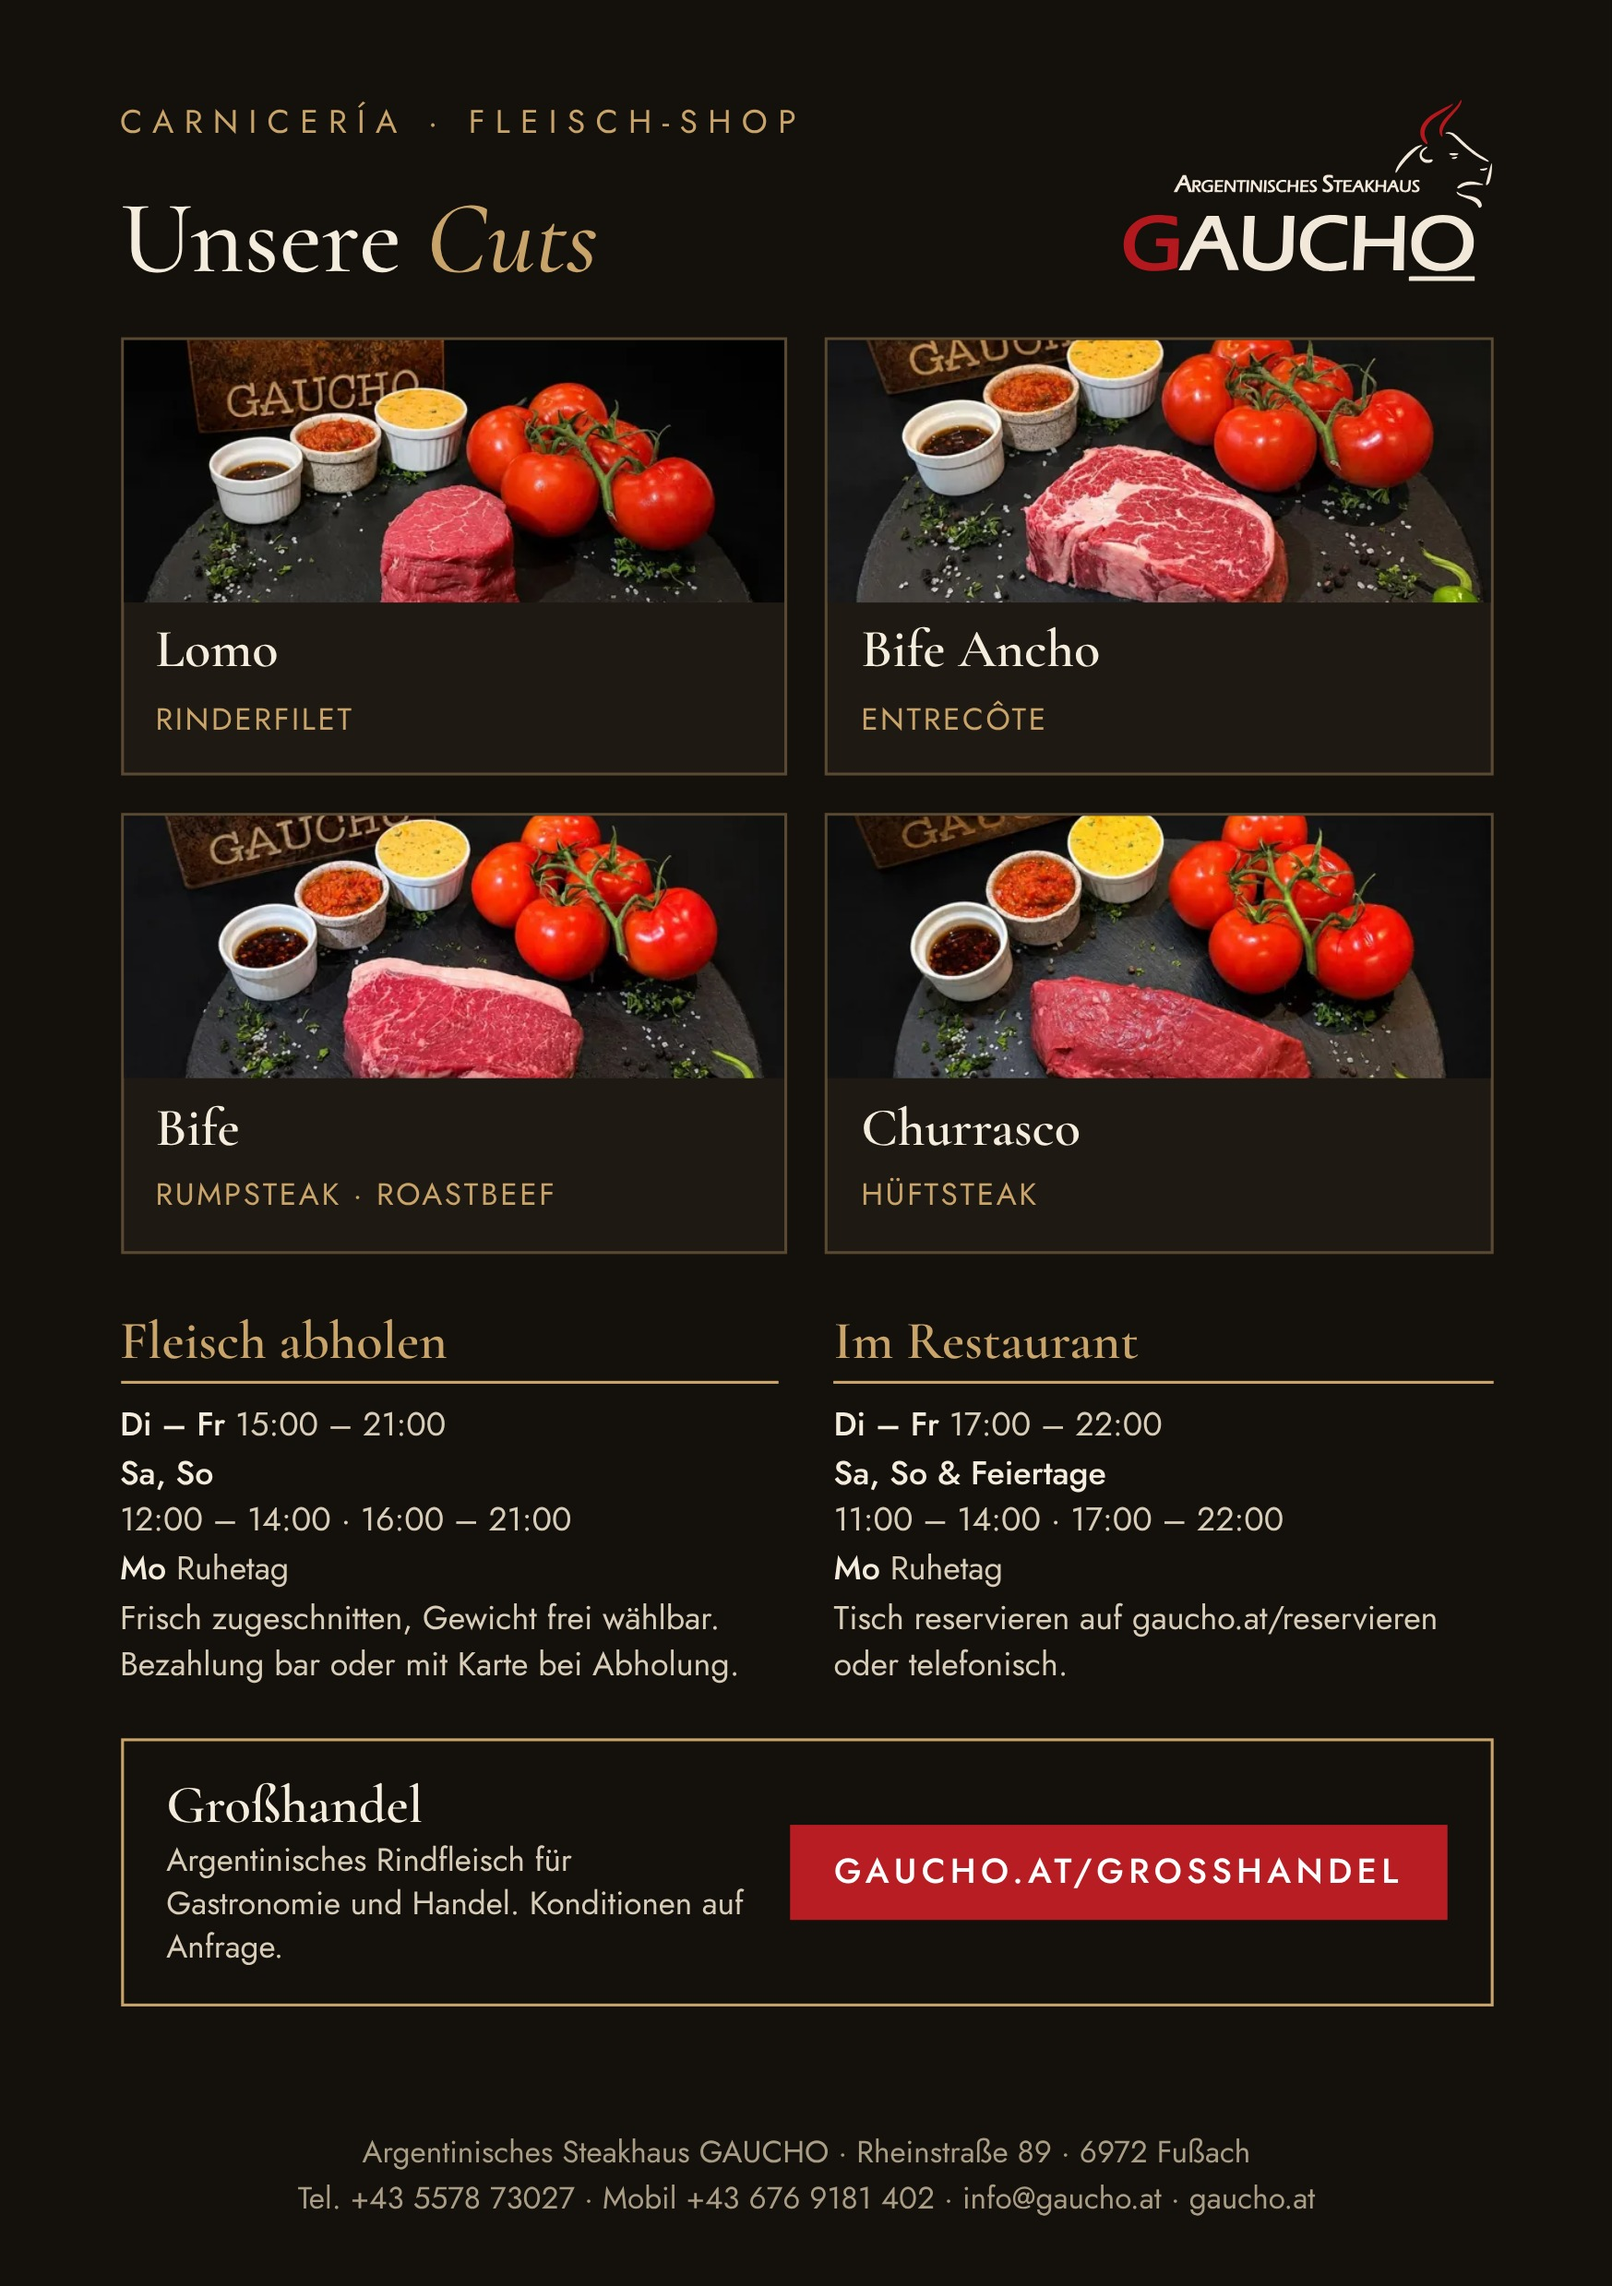
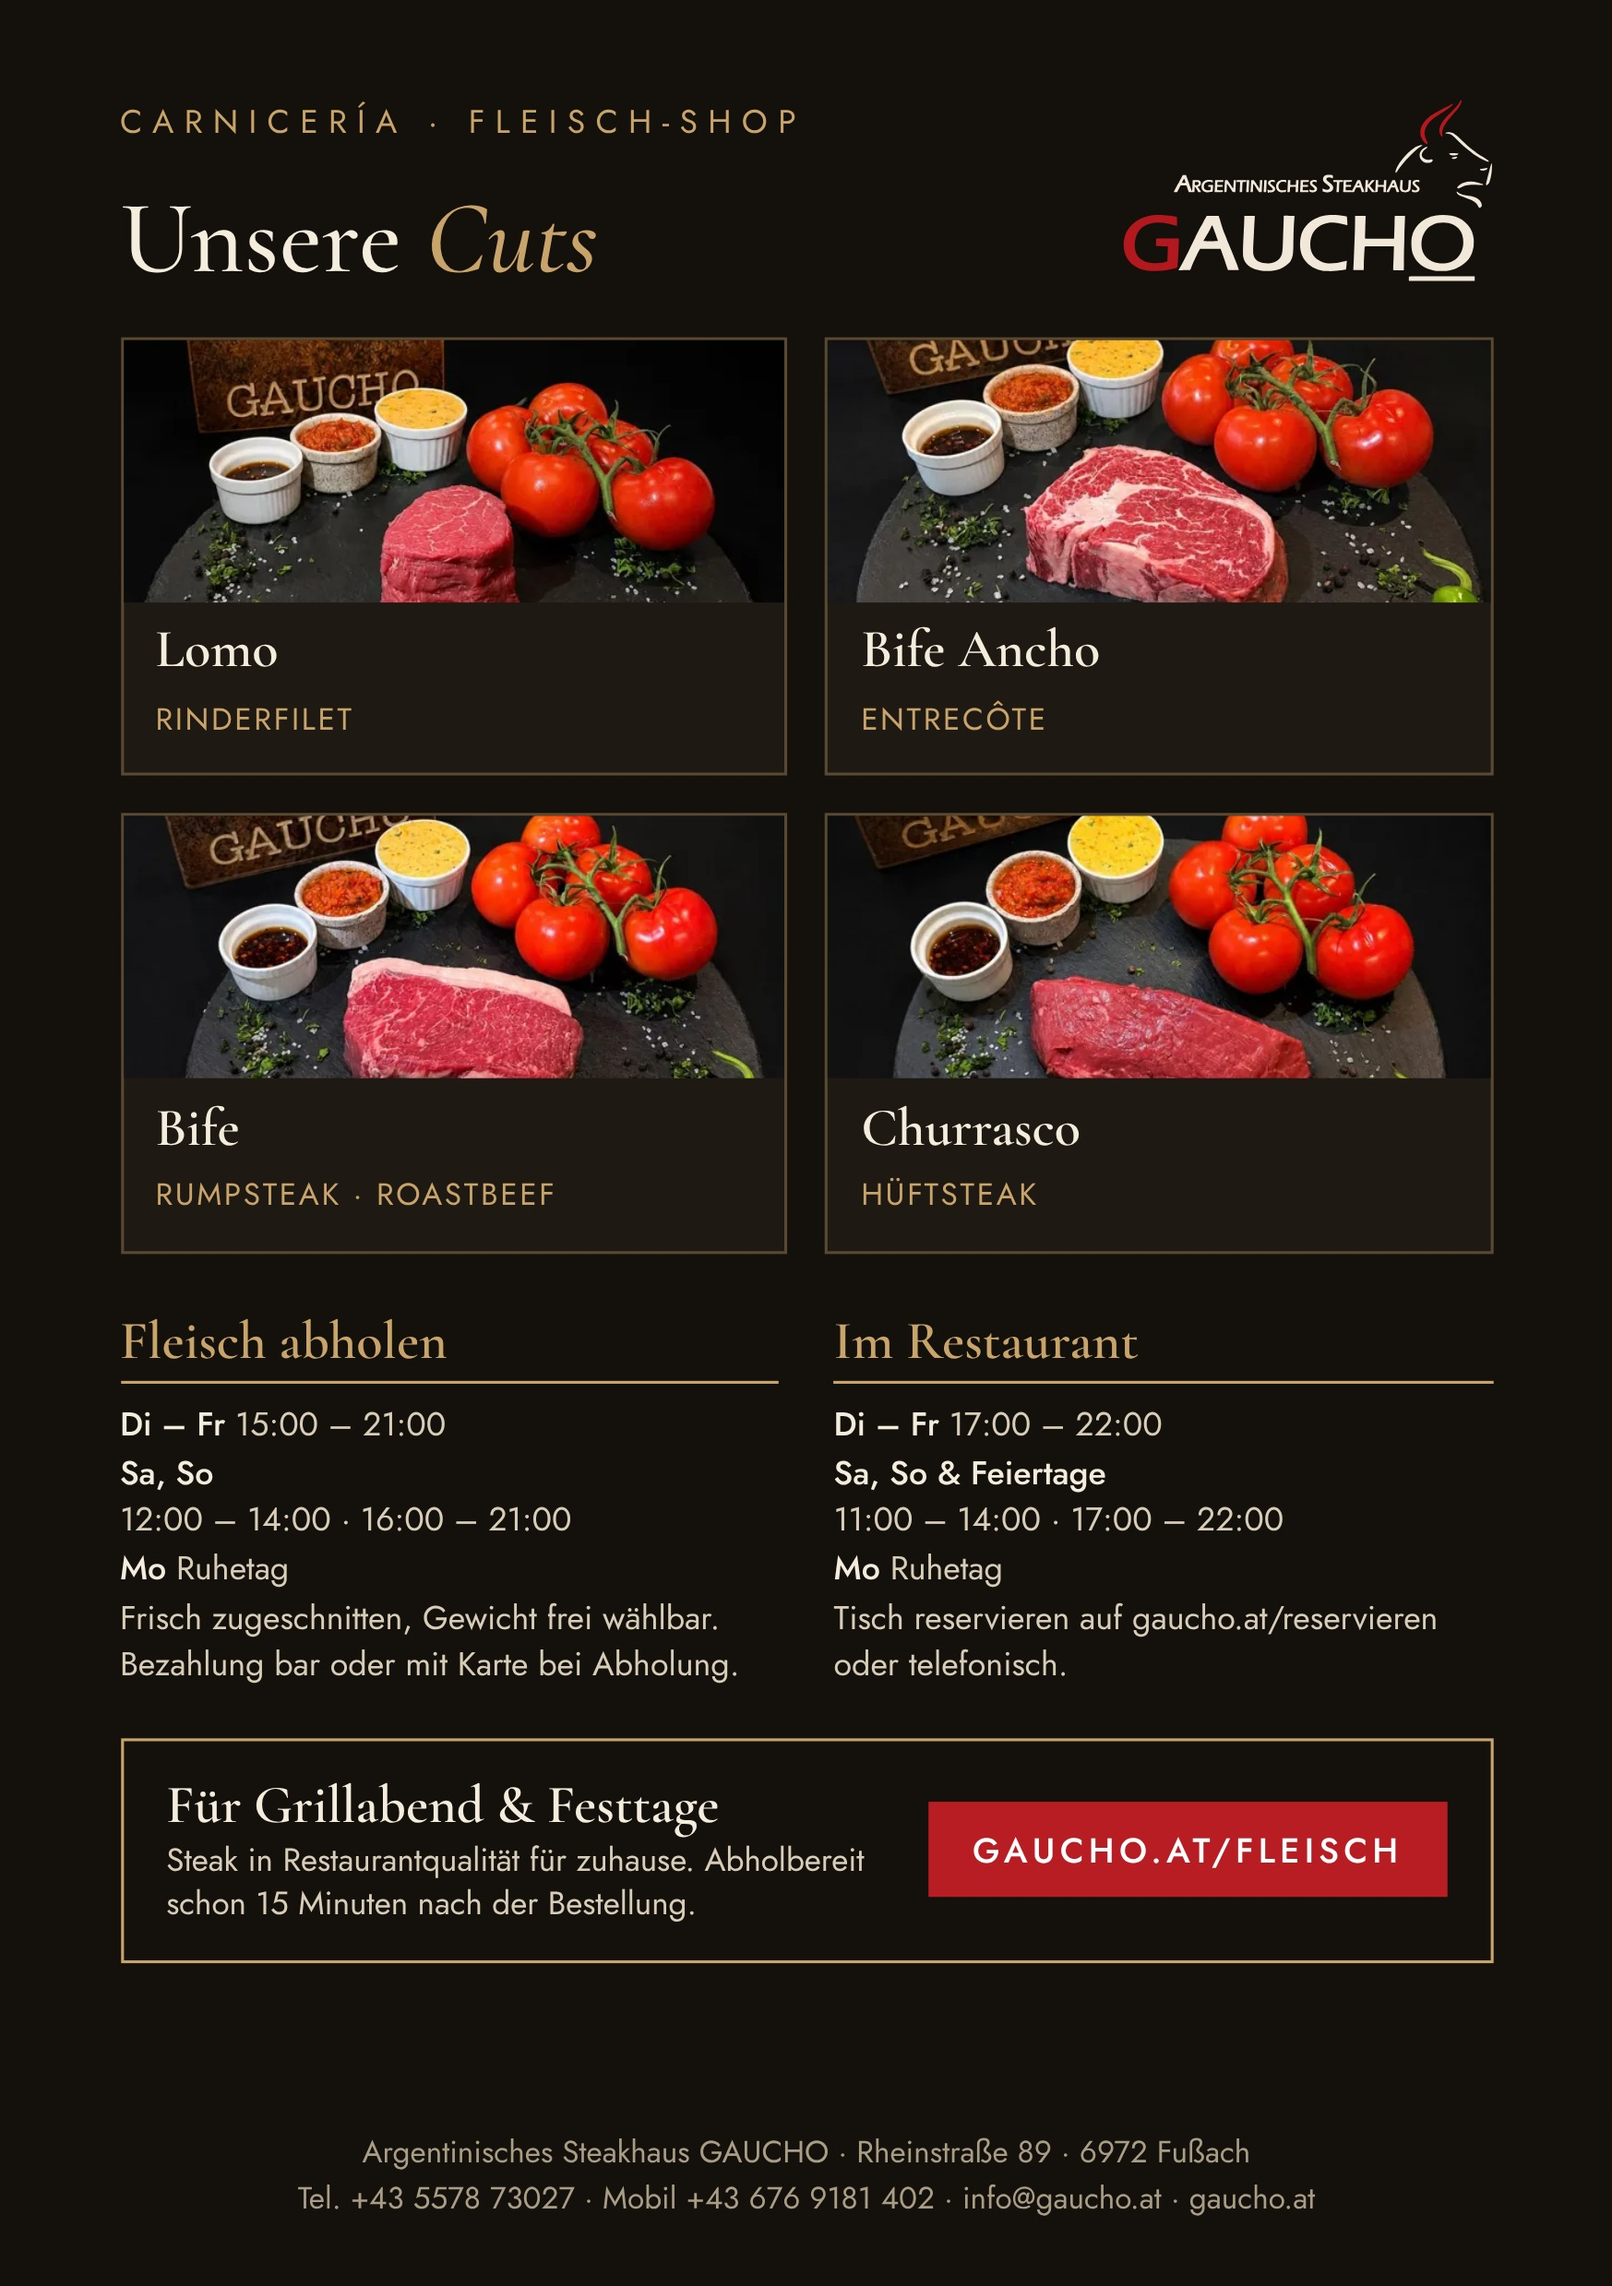
Flyer-Rückseite nur für Privatkunden, ohne Großhandel
Claude-Session: https://claude.ai/code/session_01YbDbssFw5gtfydQv6mVBaH

Changed region(s): [[0.0927, 0.7768, 0.8964, 0.8701]]

diff --git a/flyer/rueckseite.html b/flyer/rueckseite.html
@@ -55,6 +55,6 @@ h1.k{font-size:27pt;margin:4mm 0 4mm}
  <div><h3>Fleisch abholen</h3><p><strong>Di – Fr</strong> 15:00 – 21:00<br><strong>Sa, So</strong><br>12:00 – 14:00 · 16:00 – 21:00<br><strong>Mo</strong> Ruhetag<br>Frisch zugeschnitten, Gewicht frei wählbar. Bezahlung bar oder mit Karte bei Abholung.</p></div>
  <div><h3>Im Restaurant</h3><p><strong>Di – Fr</strong> 17:00 – 22:00<br><strong>Sa, So & Feiertage</strong><br>11:00 – 14:00 · 17:00 – 22:00<br><strong>Mo</strong> Ruhetag<br>Tisch reservieren auf gaucho.at/reservieren oder telefonisch.</p></div>
 </div>
-<div class="gh"><div><b>Großhandel</b><p>Argentinisches Rindfleisch für Gastronomie und Handel. Konditionen auf Anfrage.</p></div><span class="url">gaucho.at/grosshandel</span></div>
+<div class="gh"><div><b>Für Grillabend & Festtage</b><p>Steak in Restaurantqualität für zuhause. Abholbereit schon 15 Minuten nach der Bestellung.</p></div><span class="url">gaucho.at/fleisch</span></div>
 <div class="fuss">Argentinisches Steakhaus GAUCHO · Rheinstraße 89 · 6972 Fußach<br>Tel. +43 5578 73027 · Mobil +43 676 9181 402 · info@gaucho.at · gaucho.at</div>
 </div></div></body></html>
